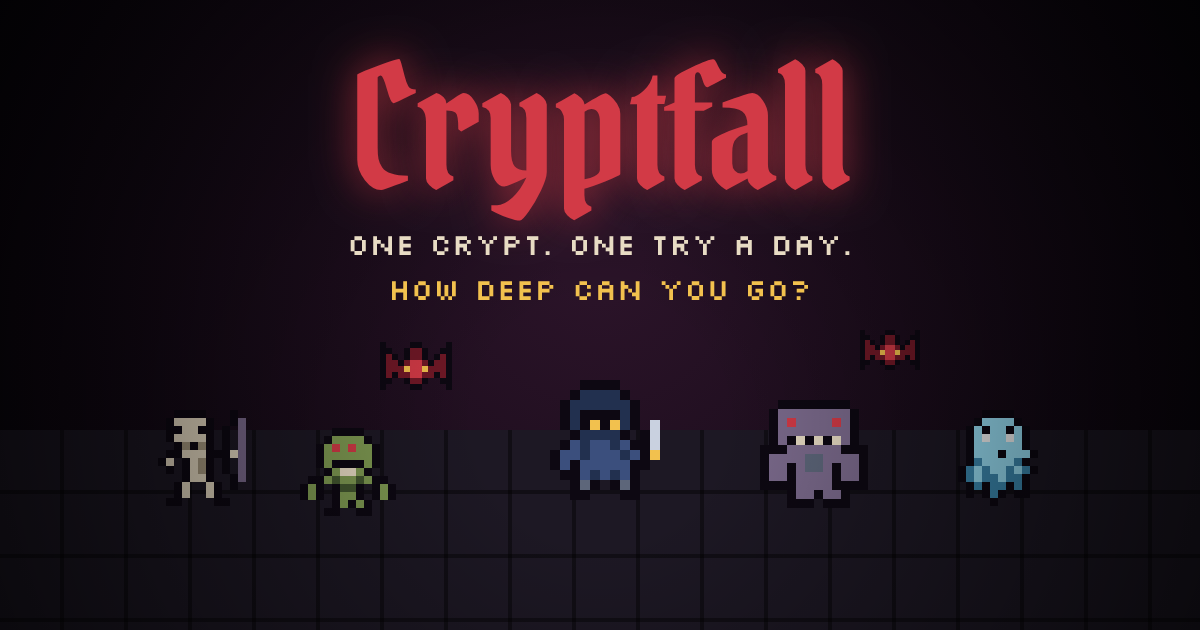
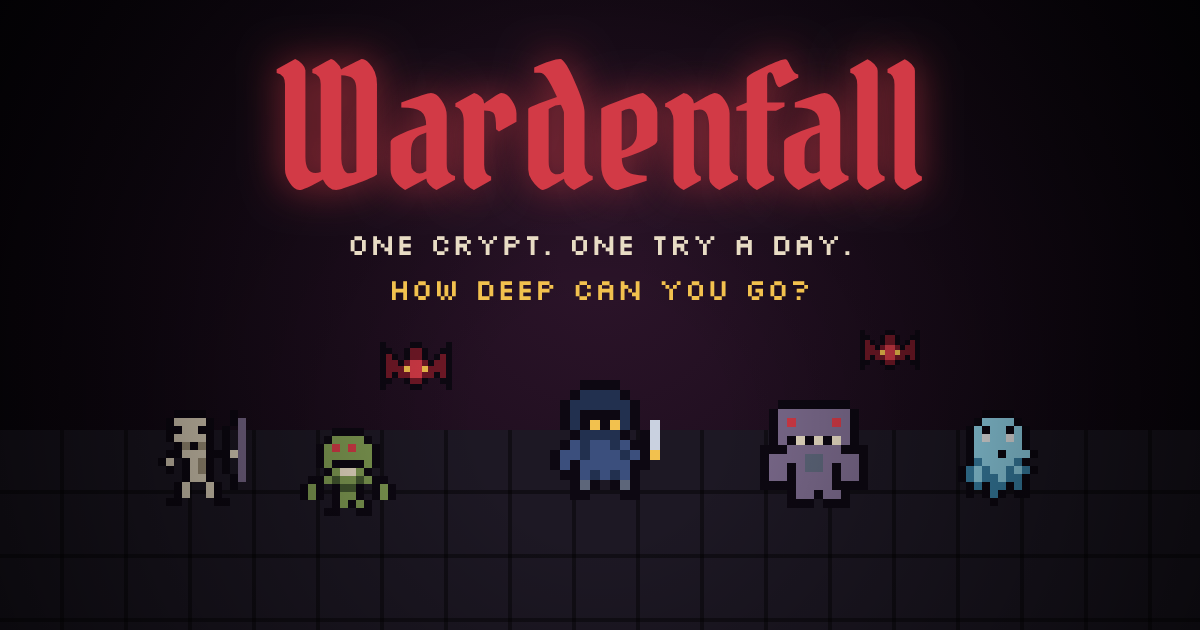
Rename the game to Wardenfall
Cryptfall is already used by another developer. Update the logo, page
title, link-preview tags and image, share text, README and package name.
The daily seed and the local save key keep their original names so
today's crypt and players' progress are unaffected.

Claude-Session: https://claude.ai/code/session_01EZvy4DRrhZeutdw1H9MYoi

Changed region(s): [[0.2158, 0.0603, 0.8017, 0.3619]]

diff --git a/index.html b/index.html
@@ -4,16 +4,16 @@
     <meta charset="UTF-8" />
     <meta name="viewport" content="width=device-width, initial-scale=1, viewport-fit=cover, user-scalable=no" />
     <meta name="theme-color" content="#07040b" />
-    <title>Cryptfall · A daily roguelite descent</title>
+    <title>Wardenfall · A daily roguelite descent</title>
     <meta name="description" content="One crypt. One try a day. Descend floor by floor, stack cursed relics into broken builds, and see how deep you can go." />
 
     <meta property="og:type" content="website" />
-    <meta property="og:title" content="Cryptfall · How deep can you go?" />
+    <meta property="og:title" content="Wardenfall · How deep can you go?" />
     <meta property="og:description" content="A daily dark-fantasy roguelite. Same crypt for everyone, one attempt a day. Plays in your browser in seconds." />
     <meta property="og:image" content="__SITE_URL__og.png" />
     <meta property="og:url" content="__SITE_URL__" />
     <meta name="twitter:card" content="summary_large_image" />
-    <meta name="twitter:title" content="Cryptfall · How deep can you go?" />
+    <meta name="twitter:title" content="Wardenfall · How deep can you go?" />
     <meta name="twitter:description" content="A daily dark-fantasy roguelite. Same crypt for everyone, one attempt a day." />
     <meta name="twitter:image" content="__SITE_URL__og.png" />
 

diff --git a/src/main.ts b/src/main.ts
@@ -39,6 +39,7 @@ window.addEventListener('resize', fitBoard);
 
 function newGame(mode: Mode) {
   const today = dailyNumber();
+  // The game was called Cryptfall at launch; the seed keeps that name so every daily stays the same crypt.
   const seed = mode === 'daily' ? hashSeed('cryptfall-daily', today) : (Math.random() * 2 ** 32) >>> 0;
   game = new Game(mode, seed, mode === 'daily' ? today : 0);
   renderer.setGame(game);
@@ -326,7 +327,7 @@ function showTitle() {
     : `<button class="btn primary" id="daily">Daily Descent #${today}<small>Same crypt for everyone. One attempt.</small></button>`;
   showOverlay('title', `
     ${accountChip()}
-    <h1 class="logo">Cryptfall</h1>
+    <h1 class="logo">Wardenfall</h1>
     <p class="tagline">One crypt. One try a day. How deep can you go?</p>
     ${dailyBlock}
     <button class="btn" id="endless">Endless Descent<small>${save.bestEndless ? `Deepest: floor ${save.bestEndless}` : 'Practice runs, random crypts'}</small></button>

diff --git a/scripts/og.html b/scripts/og.html
@@ -56,7 +56,7 @@
       ctx.shadowColor = 'rgba(210,58,70,0.7)';
       ctx.shadowBlur = 40;
       ctx.fillStyle = '#d23a46';
-      ctx.fillText('Cryptfall', 600, 190);
+      ctx.fillText('Wardenfall', 600, 190);
       ctx.shadowBlur = 0;
       ctx.font = '30px Silkscreen';
       ctx.fillStyle = '#e8dcc4';

diff --git a/src/share.ts b/src/share.ts
@@ -3,7 +3,7 @@
 
 import type { RunResult } from './storage';
 
-export const GAME_NAME = 'CRYPTFALL';
+export const GAME_NAME = 'WARDENFALL';
 
 export function siteUrl(): string {
   return location.origin + location.pathname;

diff --git a/src/storage.ts b/src/storage.ts
@@ -29,6 +29,7 @@ export interface Save {
   pending: RunSubmission[];
 }
 
+// Named after the game's launch title; kept so existing players keep their progress.
 const KEY = 'cryptfall:v1';
 
 function empty(): Save {

diff --git a/README.md b/README.md
@@ -1,8 +1,8 @@
-# Cryptfall
+# Wardenfall
 
 A daily dark-fantasy roguelite that runs in the browser. Same crypt for everyone, one attempt a day. Players go down floor by floor, stack relics into broken builds, and share how deep they got.
 
-**Play:** https://notjstn666.github.io/cryptfall/
+**Play:** https://notjstn666.github.io/wardenfall/
 
 ## How it plays
 
@@ -52,7 +52,7 @@ With no configuration the game runs fully offline: names and progress are saved 
 1. Create a free project at [supabase.com](https://supabase.com).
 2. **SQL Editor → New query**: paste all of `supabase/schema.sql` and click **Run**.
 3. **Authentication → Sign In / Providers**: turn on **Allow anonymous sign-ins**. Email sign-in is on by default.
-4. **Authentication → URL Configuration**: set **Site URL** to the game's address (for example `https://notjstn666.github.io/cryptfall/`) and add the same URL under **Redirect URLs**.
+4. **Authentication → URL Configuration**: set **Site URL** to the game's address (for example `https://notjstn666.github.io/wardenfall/`) and add the same URL under **Redirect URLs**.
 5. **Authentication → Emails → Magic Link**: add `Your code: {{ .Token }}` to the template. Players who open the email outside the game's browser (common in the X app) can then type the code instead of tapping the link.
 6. **Project Settings → API**: copy the **Project URL** and the **anon public** key.
 7. In this GitHub repo, go to **Settings → Secrets and variables → Actions → Variables** and add `SUPABASE_URL` and `SUPABASE_ANON_KEY`. Then re-run the deploy workflow.
@@ -69,6 +69,6 @@ Every run uploads its full input log. The game is deterministic, so `Game.replay
 
 `.github/workflows/deploy.yml` builds and publishes to GitHub Pages on every push to `main`. One-time setup: **Settings → Pages → Source: GitHub Actions**.
 
-The site's address in the link-preview tags is worked out from the repo name at build time, so renaming the repo needs no code change. For a custom domain, set a repo variable `SITE_URL` (e.g. `https://cryptfall.gg/`).
+The site's address in the link-preview tags is worked out from the repo name at build time, so renaming the repo needs no code change. For a custom domain, set a repo variable `SITE_URL` (e.g. `https://wardenfall.com/`).
 
 The social preview image is `public/og.png`. To regenerate it, run `npx vite --port 5199` and then `node scripts/make-og.mjs` (needs Playwright installed).
